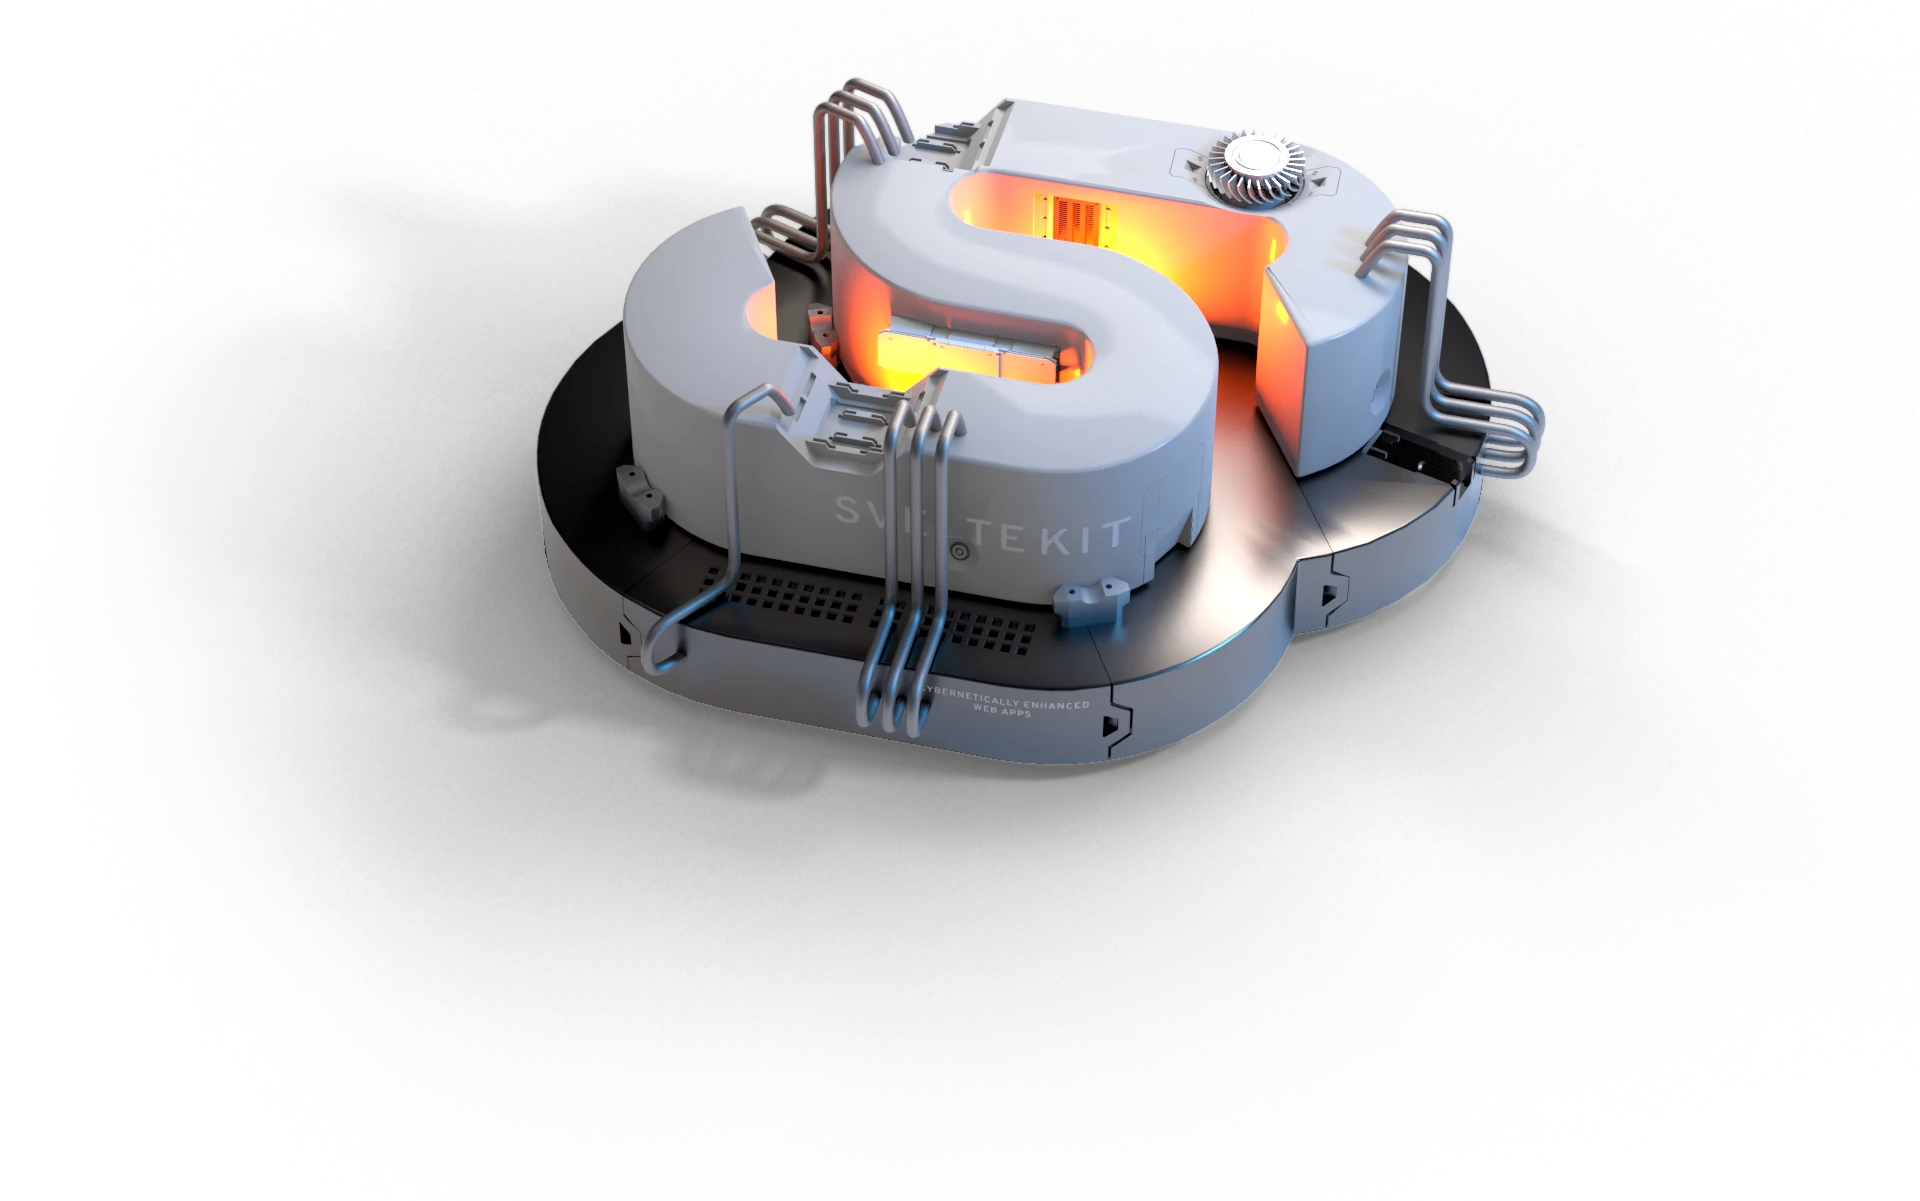
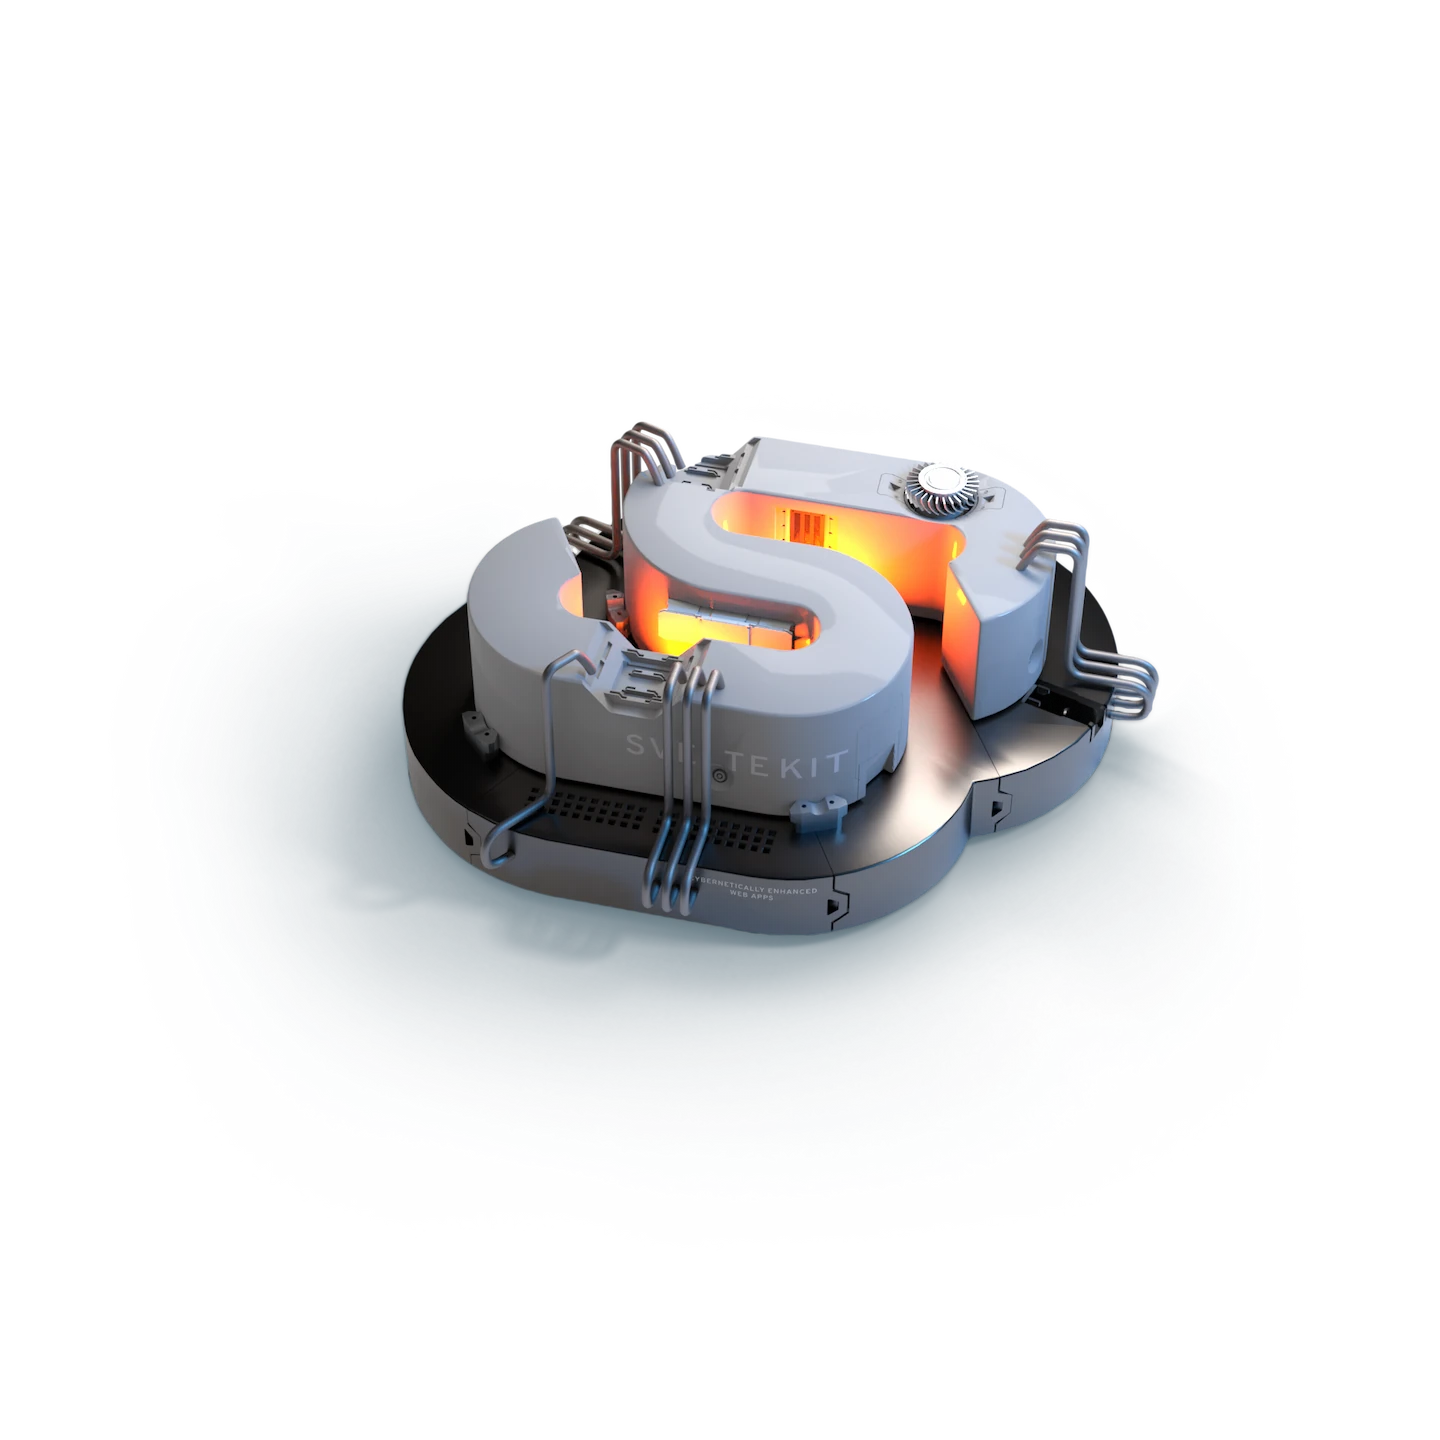
swap out image assets for higher quality, smaller versions

Changed region(s): [[0.125, 0.0616, 0.8438, 0.7702]]

diff --git a/packages/site-kit/components/Hero.svelte b/packages/site-kit/components/Hero.svelte
@@ -82,10 +82,11 @@ linear-gradient(0deg, #DBE7EF, #DBE7EF);
 		align-items: center;
 	}
 
-	picture img {
+	.hero-image img {
 		width: 600px;
-		object-fit: contain;
-		transform: translate(-2%,0);
+		height: 450px;
+		object-fit: cover;
+		transform: translate(-2%,-10%);
 	}
 
 	@media (min-width: 480px) {
@@ -93,10 +94,9 @@ linear-gradient(0deg, #DBE7EF, #DBE7EF);
 			max-width: auto;
 		}
 
-		picture img {
+		.hero-image img {
 			width: 800px;
-			object-fit: contain;
-			transform: translate(-2%,0);
+			height: 600px;
 		}
 	}
 
@@ -117,7 +117,8 @@ linear-gradient(0deg, #DBE7EF, #DBE7EF);
 
 		.hero-image img {
 			width: 480px;
-			transform: translate(0,10%) scale(1.8);
+			object-fit: contain;
+			transform: scale(1.8);
 		}
 
 		.hero-banner h3 {

diff --git a/sites/kit.svelte.dev/src/routes/index.svelte b/sites/kit.svelte.dev/src/routes/index.svelte
@@ -25,7 +25,7 @@
 	background="/images/svelte-kit-machine"
 	alt="SvelteKit illustration"
 	width={960}
-	height={601}
+	height={960}
 />
 
 <Blurb>
